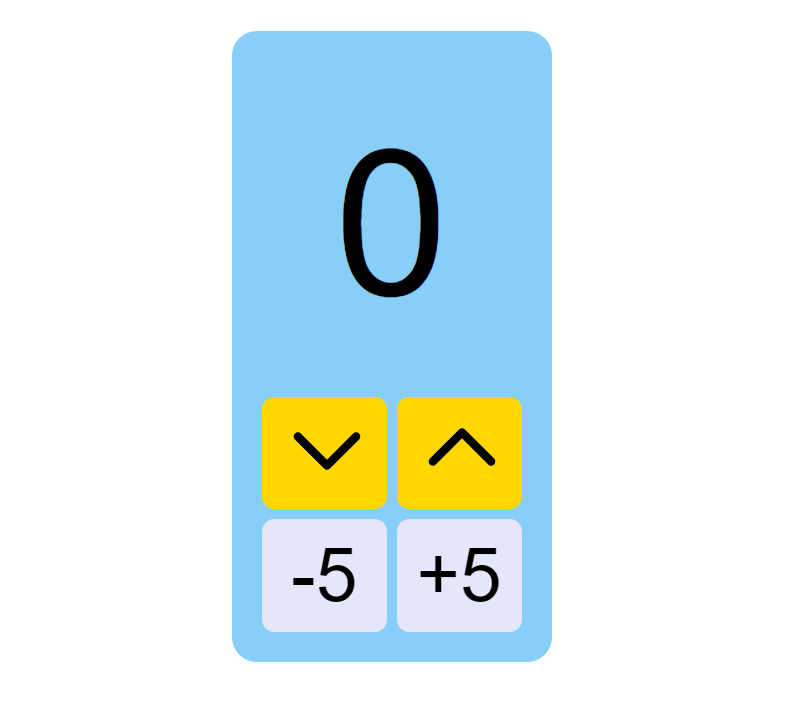
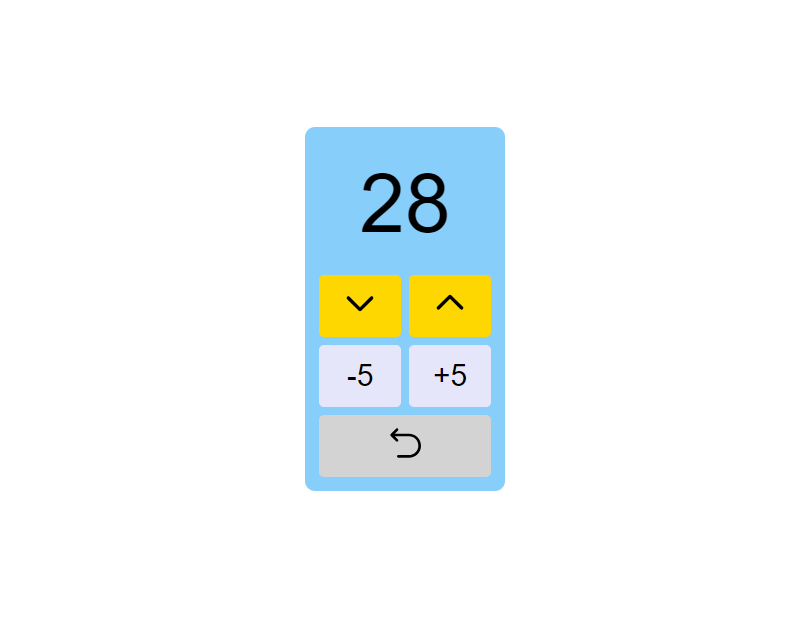
A reset button added to set the value to zero

diff --git a/src/components/counter.jsx b/src/components/counter.jsx
@@ -1,7 +1,8 @@
 import { useState } from "react";
 import Button from "./button";
-import upIcon from "./../icons/up.svg"
-import downIcon from "./../icons/down.svg"
+import upIcon from "./../icons/up.svg";
+import downIcon from "./../icons/down.svg";
+import resetIcon from "./../icons/reset.svg";
 
 export default function Counter() {
   const [value, setValue] = useState(0); // Initialize state to keep track of the counter's value
@@ -18,6 +19,9 @@ export default function Counter() {
   const HandleDecreaseFive = () => {
     setValue(value - 5); // Decrease the counter value by 5
   };
+  const HandleReset = () => {
+    setValue(0); // Reset the counter value
+  }
 
   return (
     <>
@@ -51,11 +55,7 @@ export default function Counter() {
               alt={"down"}
               onClick={HandleDecrease}
             ></Button>
-            <Button
-              src={upIcon}
-              alt={"up"}
-              onClick={HandleIncrease}
-            ></Button>
+            <Button src={upIcon} alt={"up"} onClick={HandleIncrease}></Button>
           </div>
           <div>
             <Button bgColor={"Lavender"} onClick={HandleDecreaseFive}>
@@ -64,6 +64,9 @@ export default function Counter() {
             <Button bgColor={"Lavender"} onClick={HandleIncreaseFive}>
               +5
             </Button>
+          </div>
+          <div>
+            <Button src={resetIcon} bgColor={"LightGrey"} onClick={HandleReset} wide></Button>
           </div>
         </div>
       </div>

diff --git a/src/components/button.jsx b/src/components/button.jsx
@@ -6,6 +6,7 @@ export default function Button({
   onClick, // Function to be called when the button is clicked
   bgColor = "gold", // Background color of the button, default is "gold"
   children, // Fallback content to be displayed if no image is provided
+  wide // Making the button wide as long as two buttons
 }) {
 
   // Determine the button's content: use an image if 'src' is provided, otherwise use 'children'
@@ -16,14 +17,15 @@ export default function Button({
       <button
         onClick={onClick}
         style={{
+          boxSizing: "content-box",
           border: "0",
-          margin: "2px",
+          margin: "4px",
           backgroundColor: bgColor,
           borderRadius: "5px",
           fontFamily: "Arial",
           fontSize: "30px",
-          width: "50px",
-          height: "45px",
+          width: wide ? "160px" : "70px",
+          height: "60px",
         }}
       >
         {value}
